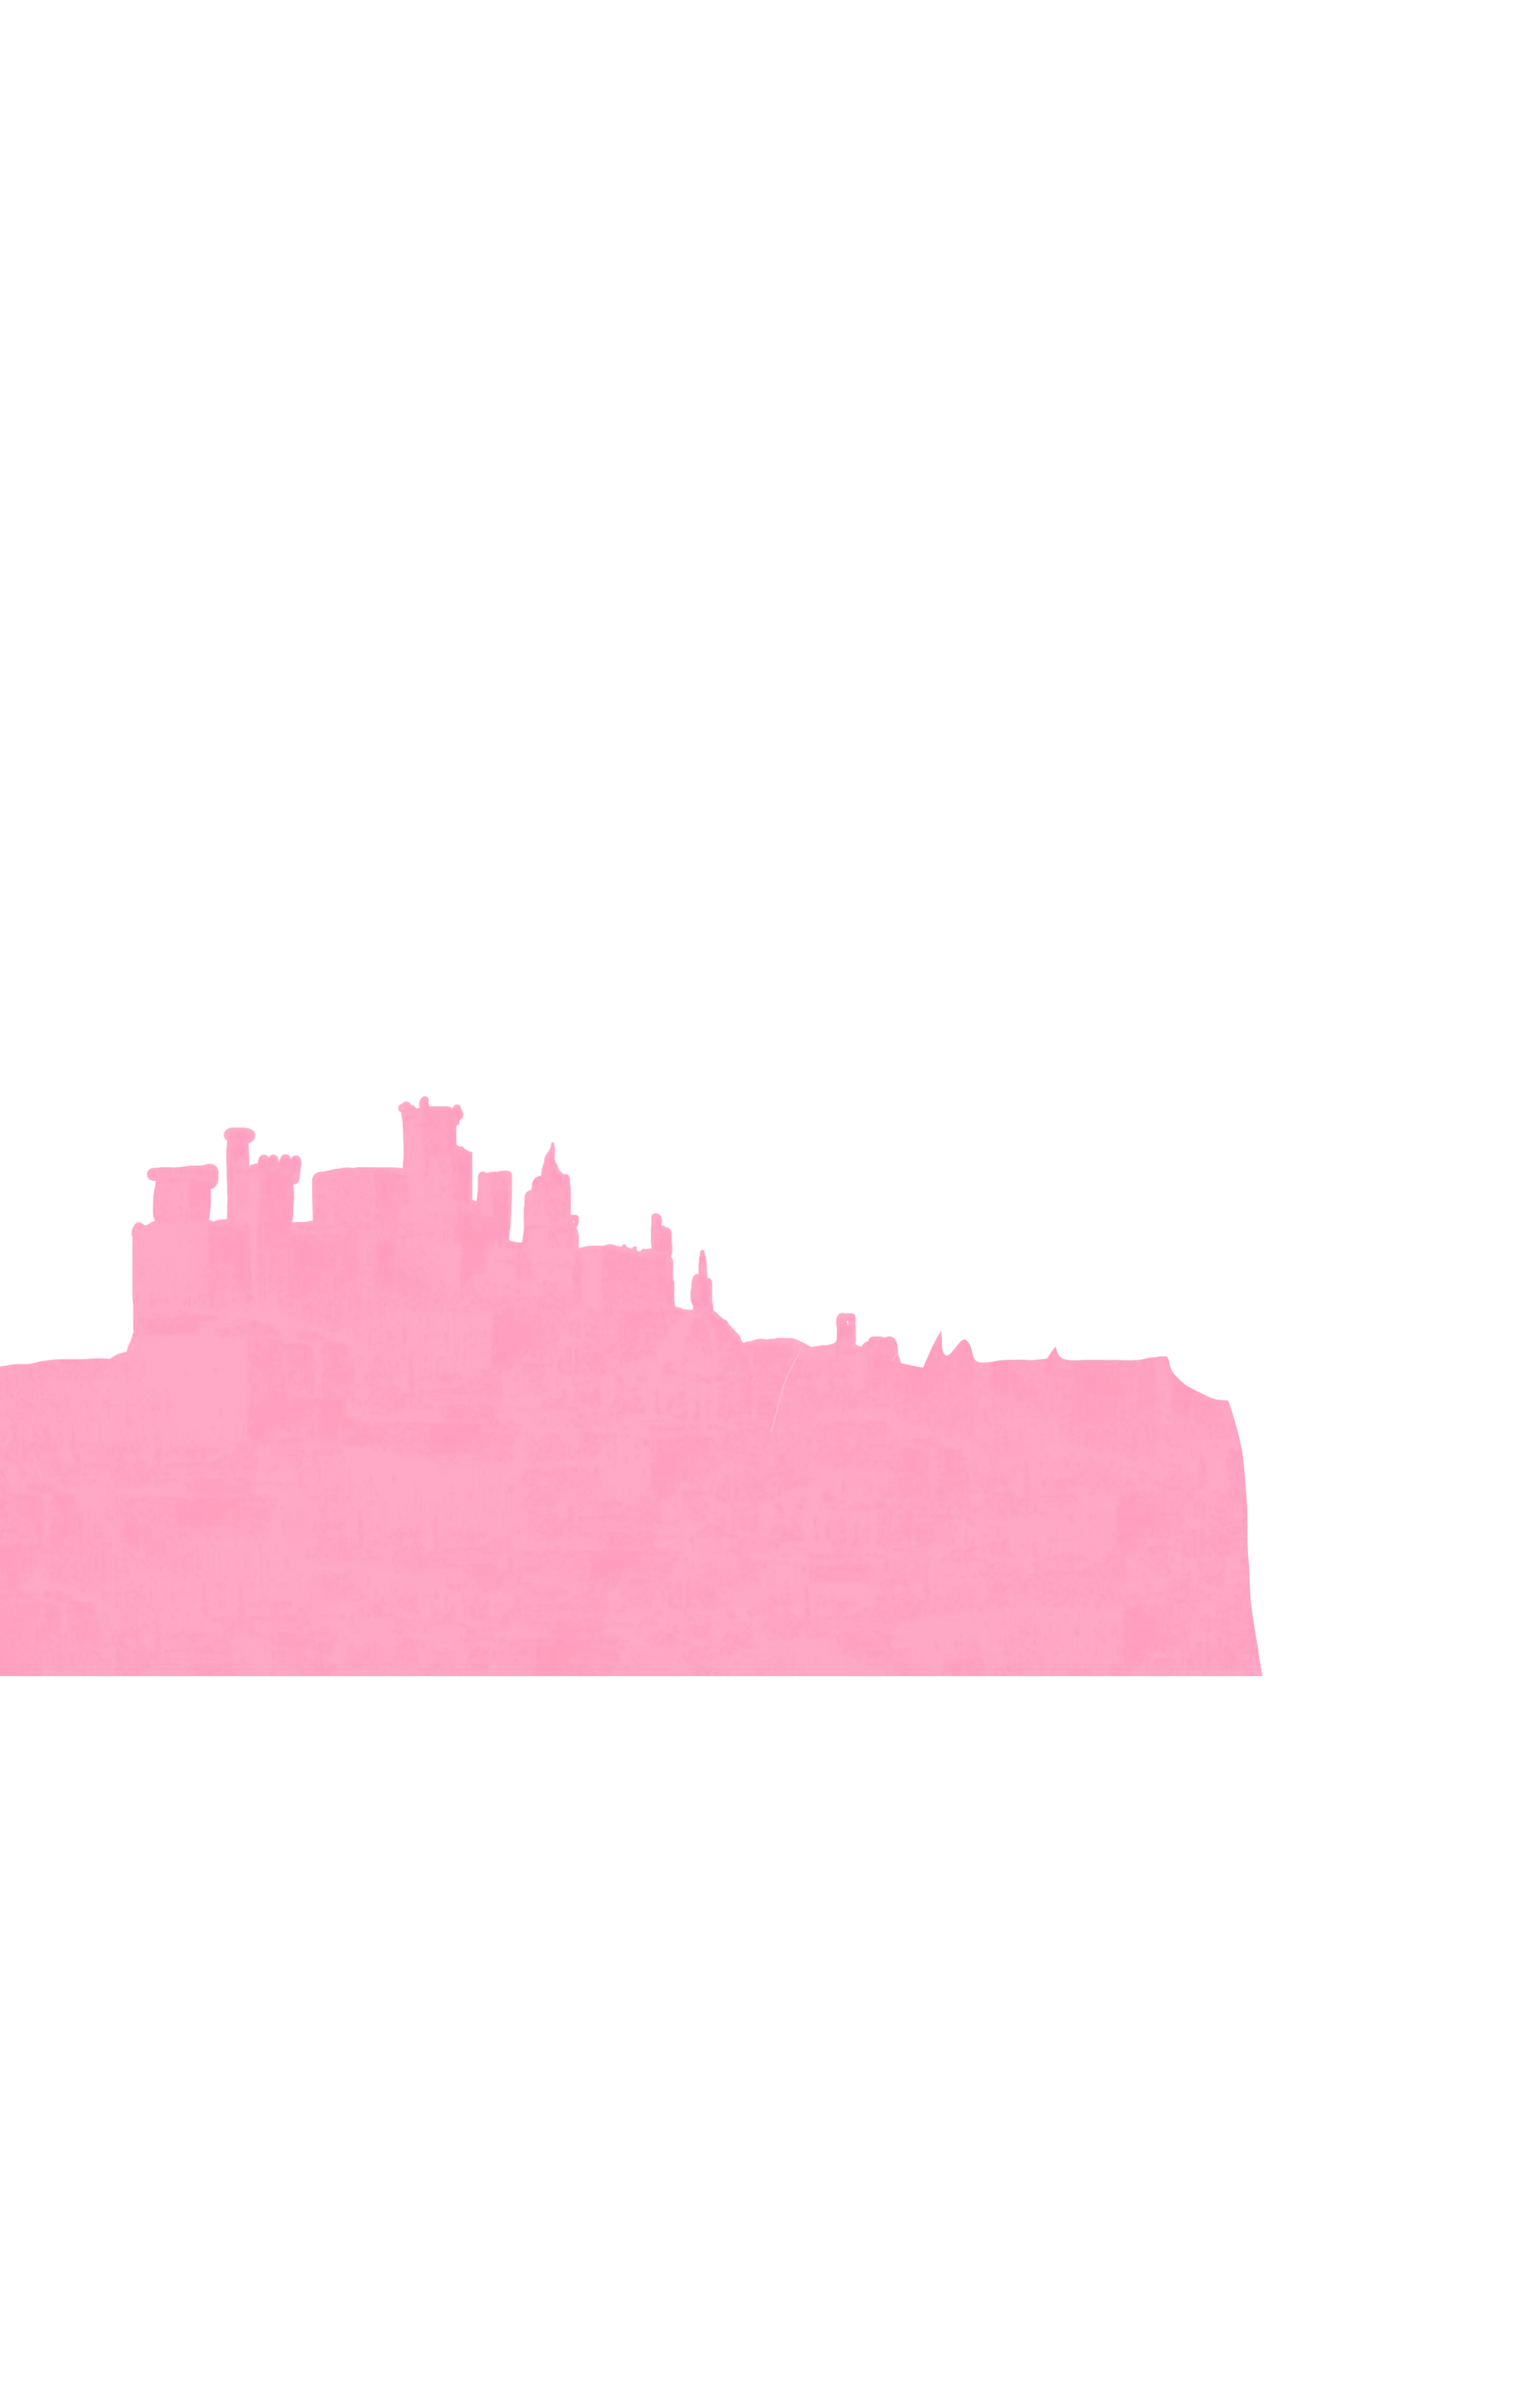
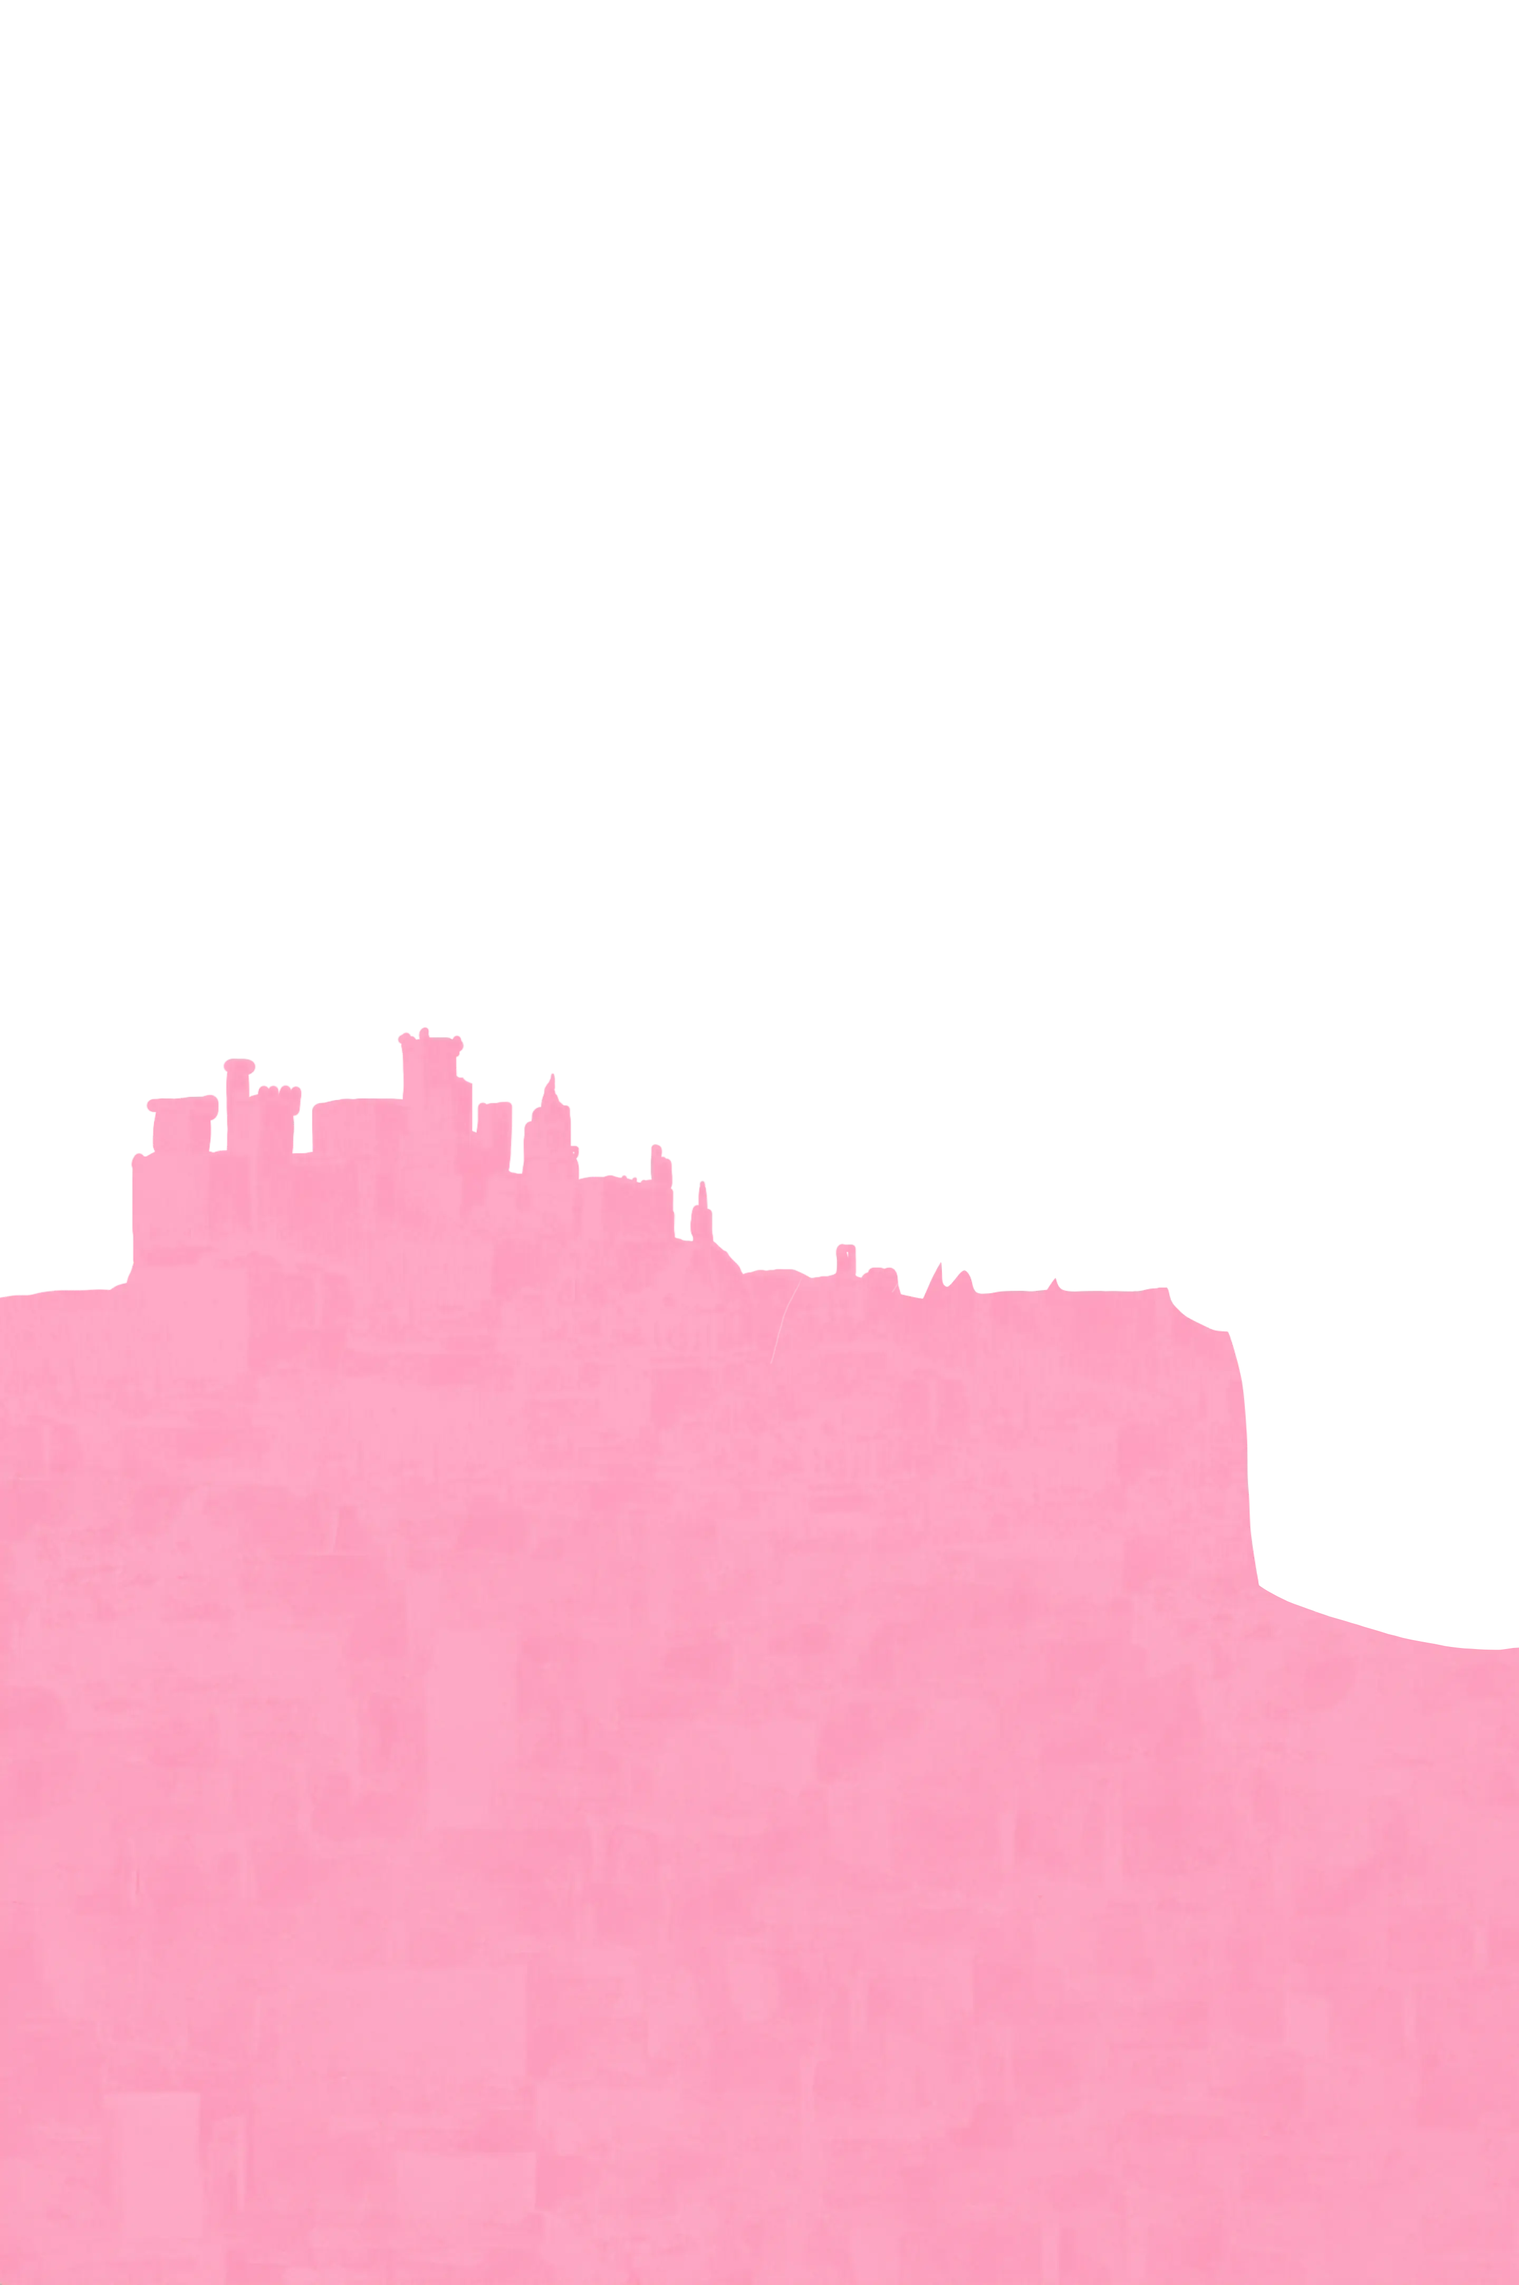
halloween

diff --git a/src/js/main.js b/src/js/main.js
@@ -2,7 +2,31 @@ import gsap from "gsap";
 import { ScrollTrigger } from "gsap/ScrollTrigger";
 gsap.registerPlugin(ScrollTrigger);
 
+gsap.from("#js-layer-1", {
+  y: 0,
+  ease: "none",
+  scrollTrigger: {
+    trigger: "#js-parallax",
+    start: "top top",
+    end: "bottom top",
+    scrub: true,
+    markers: true,
+  },
+});
+
 gsap.from("#js-layer-2", {
+  y: 50,
+  ease: "none",
+  scrollTrigger: {
+    trigger: "#js-parallax",
+    start: "top top",
+    end: "bottom top",
+    scrub: true,
+    markers: true,
+  },
+});
+
+gsap.from("#js-layer-3", {
   y: 100,
   ease: "none",
   scrollTrigger: {
@@ -14,8 +38,20 @@ gsap.from("#js-layer-2", {
   },
 });
 
-gsap.from("#js-layer-7", {
-  y: 400,
+gsap.from("#js-layer-4", {
+  y: 200,
+  ease: "none",
+  scrollTrigger: {
+    trigger: "#js-parallax",
+    start: "top top",
+    end: "bottom top",
+    scrub: true,
+    markers: true,
+  },
+});
+
+gsap.from("#js-layer-6", {
+  y: 300,
   ease: "none",
   scrollTrigger: {
     trigger: "#js-parallax",
@@ -26,8 +62,8 @@ gsap.from("#js-layer-7", {
   },
 });
 
-gsap.from("#js-layer-3", {
-  y: 100,
+gsap.from("#js-layer-7", {
+  y: 400,
   ease: "none",
   scrollTrigger: {
     trigger: "#js-parallax",

diff --git a/src/index.html b/src/index.html
@@ -50,13 +50,14 @@
       <img
         class="layer layer-5"
         id="js-layer-5"
-        src="img/home_page/header/midground.webp"
+        src="img/home_page/header/logo.webp"
         alt=""
       />
+
       <img
         class="layer layer-6"
         id="js-layer-6"
-        src="img/home_page/header/ysa.webp"
+        src="img/home_page/header/ysa-mid.webp"
         alt=""
       />
       <img

diff --git a/src/scss/modules/_parallax.scss b/src/scss/modules/_parallax.scss
@@ -9,3 +9,12 @@
   position: absolute;
   bottom: 0;
 }
+
+.layer-5 {
+  top: 20%;
+  // scale: 1.5;
+}
+
+.layer-7 {
+  width: 200%;
+}
